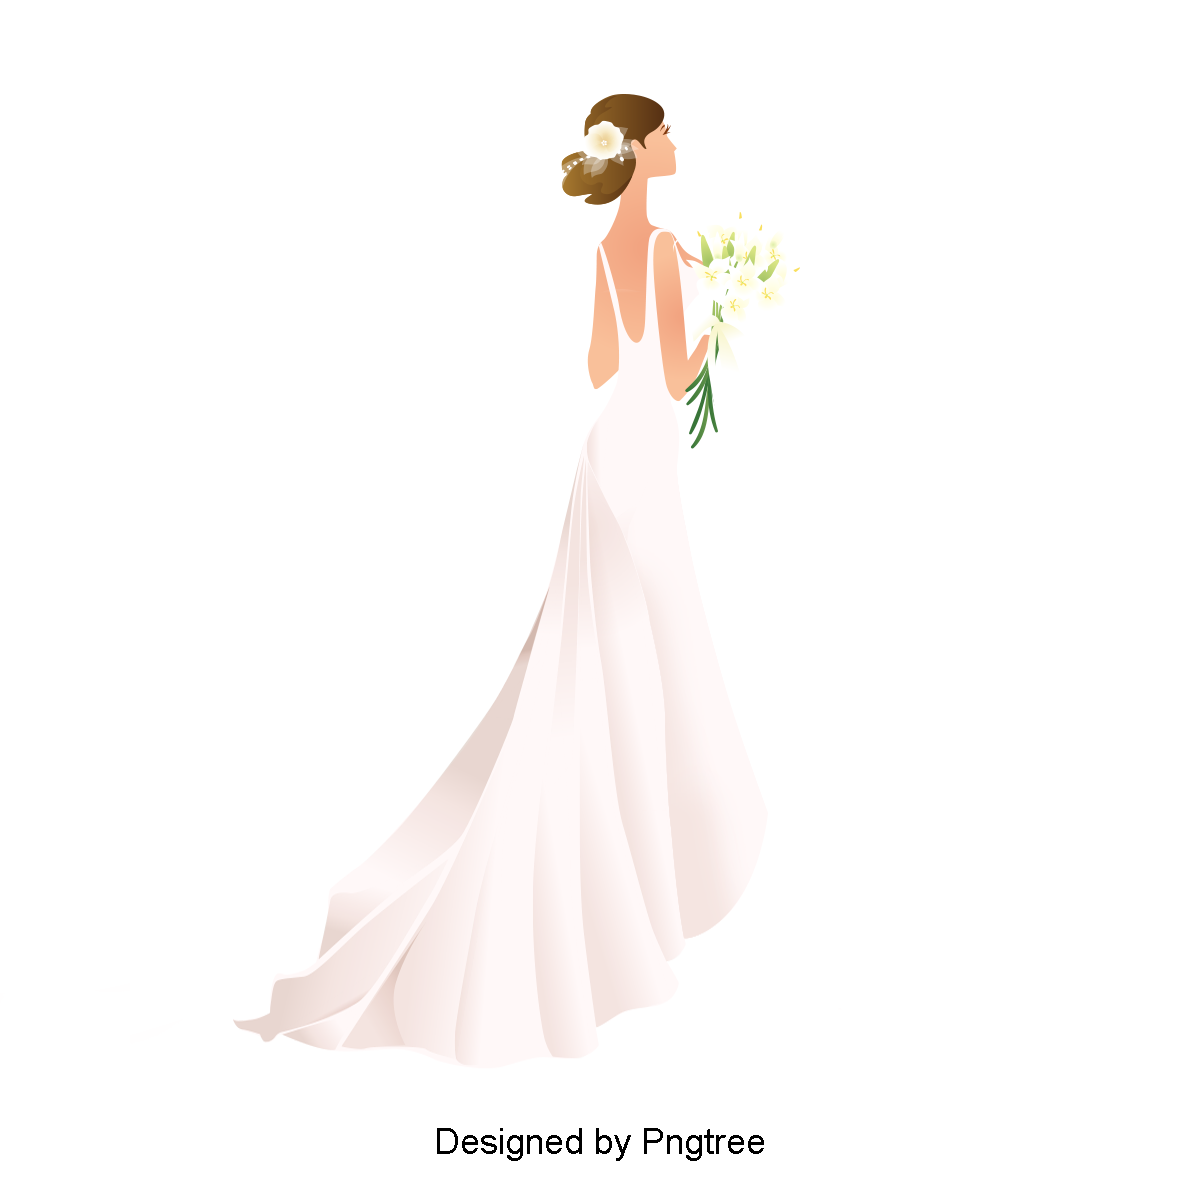
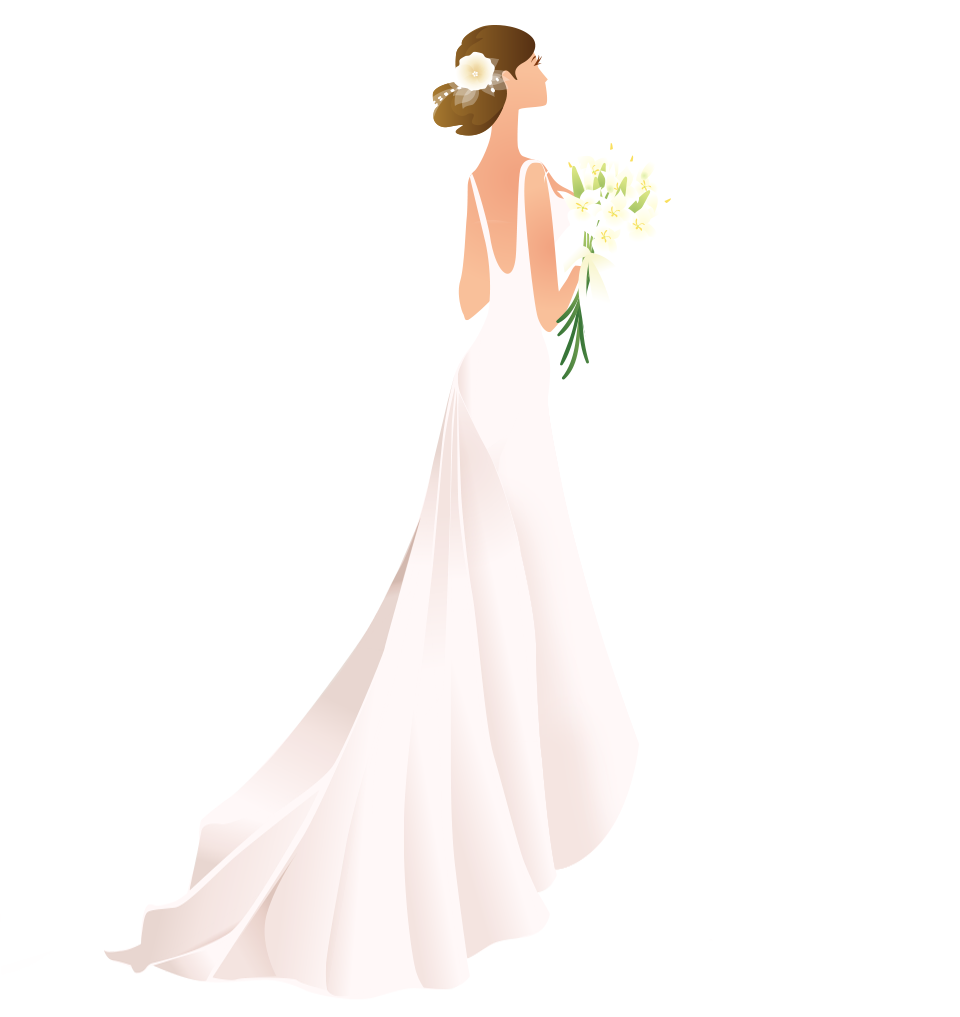
feat: fill all mapped photo elements with default, gallery hide via widgetType
- extract_simple_array_fields: fill remaining mapped slots with last item
  so default cover reaches ALL mapped cover widgets (not just slot 0)
- extract_simple_fields already applies same value to all mappings
  (groom/bride photos handled correctly)
- Replace default bride/groom PNGs with user-provided files
- Gallery widget hidden via hide_widgets_by_type('gallery') when empty

diff --git a/wp-mu-plugin/aksaraa-plugin.php b/wp-mu-plugin/aksaraa-plugin.php
@@ -968,6 +968,19 @@ class AksaraaPlugin
                     ];
                 }
             }
+            // Fill remaining mapped slots with the last item so all mapped elements
+            // receive the value (e.g. default cover shown on every cover widget).
+            $last = end($items);
+            for ($i = count($items); $i < count($mapping); $i++) {
+                $m = $mapping[$i] ?? null;
+                if (is_array($m) && isset($m['elementId'])) {
+                    $result[] = [
+                        'elementId' => $m['elementId'],
+                        'settings' => is_array($m['settings']) ? $m['settings'] : [],
+                        'value' => $last,
+                    ];
+                }
+            }
         }
         return $result;
     }
